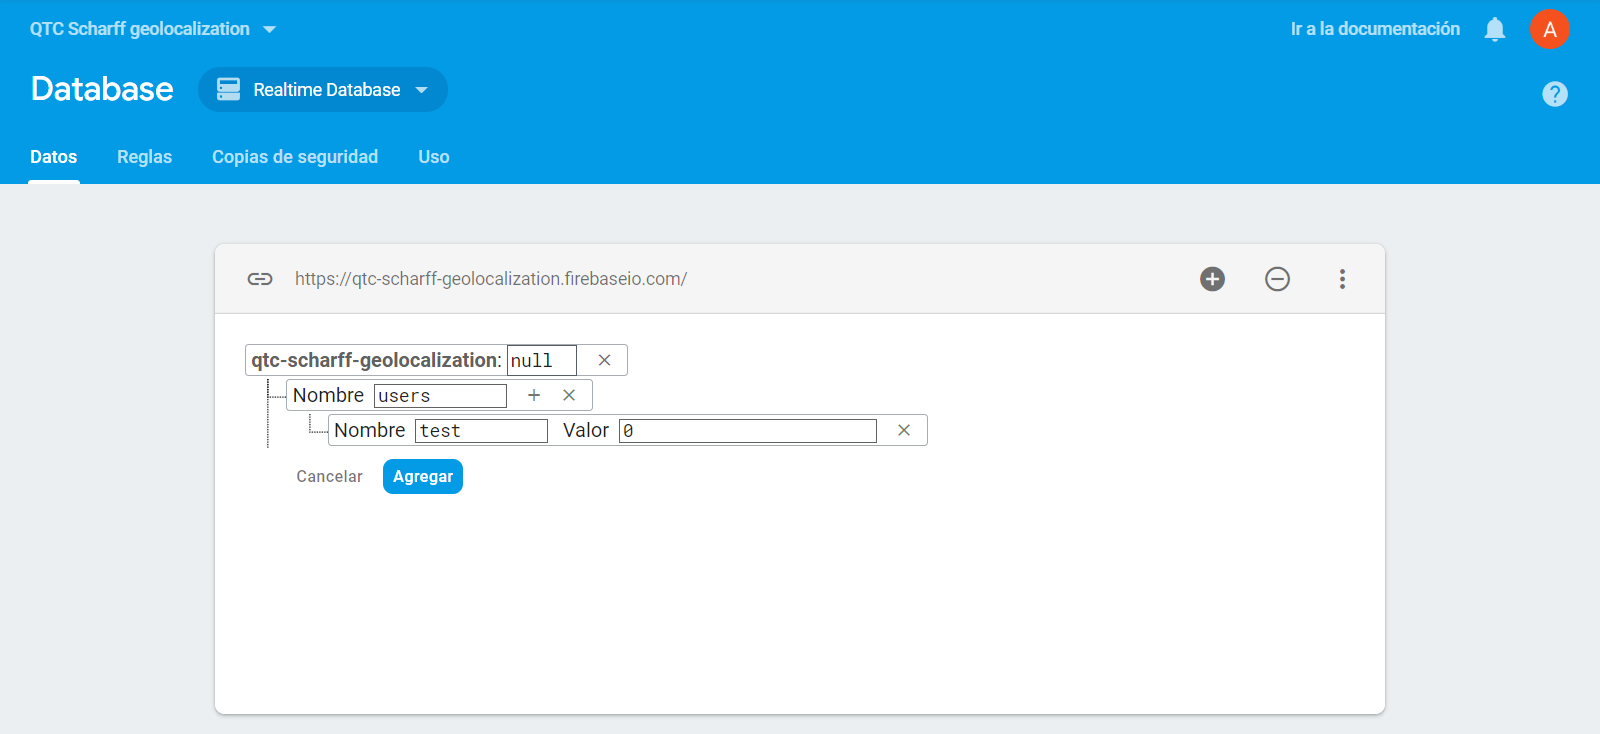
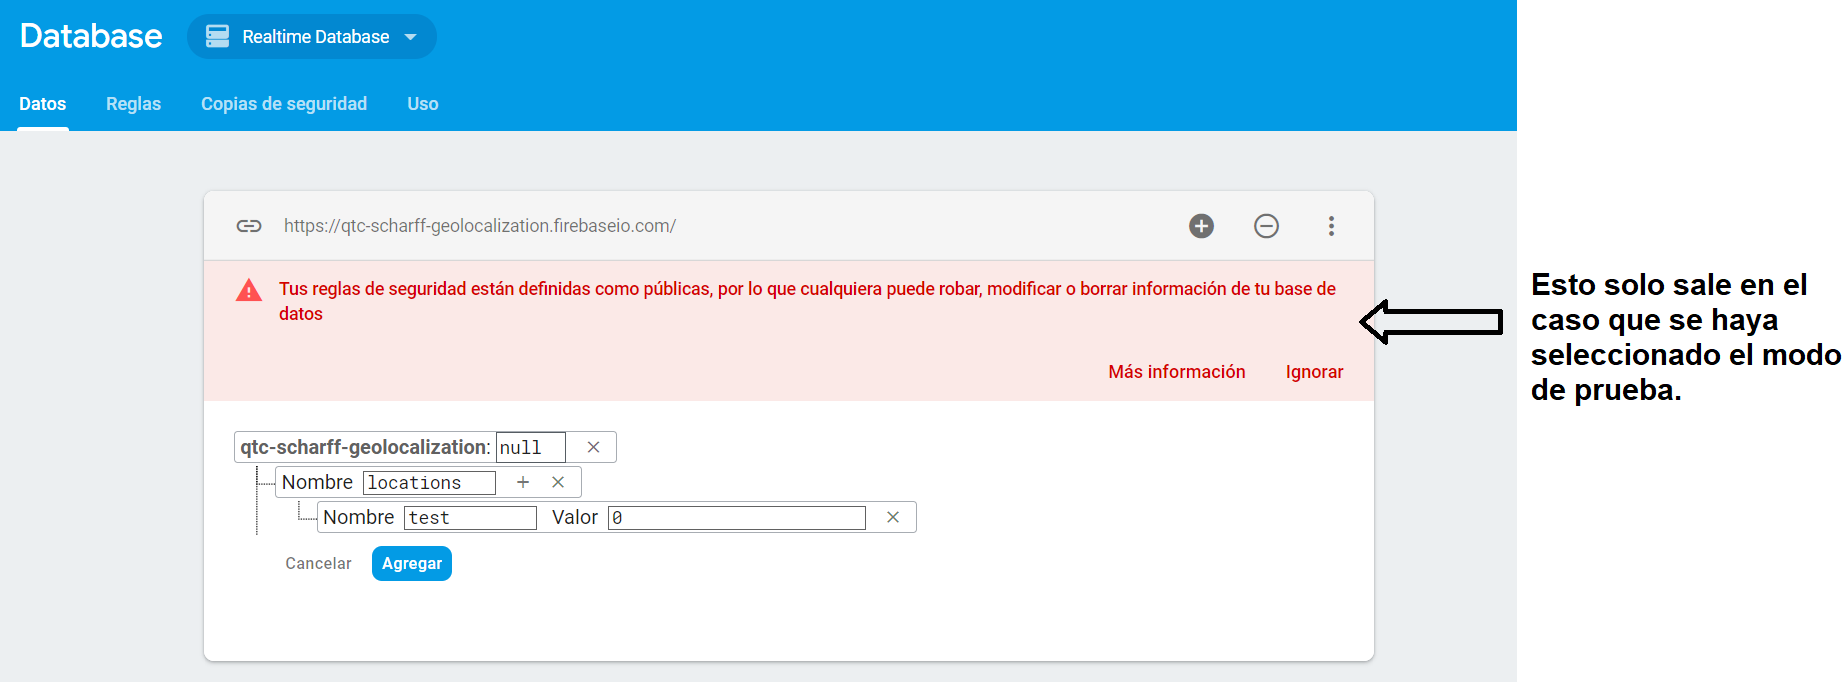
Avances 2019-03-19

diff --git a/app/src/main/java/com/qtcteam/scharff/geolocalization/presenter/TrackingPresenter.java b/app/src/main/java/com/qtcteam/scharff/geolocalization/presenter/TrackingPresenter.java
@@ -1,6 +1,5 @@
 package com.qtcteam.scharff.geolocalization.presenter;
 
-import android.content.ComponentName;
 import android.content.Context;
 import android.content.Intent;
 import android.location.LocationManager;
@@ -13,6 +12,7 @@ import com.qtcteam.scharff.geolocalization.view.TrackingActivity;
 public class TrackingPresenter implements Presenter {
 
     private final static String TAG = "QTC_GEO_TRACKING_PRES";
+    /* package */ final static String EXTRA_ORDER = "ORDER";
 
     private TrackingActivity view;
     private boolean hasService;
@@ -23,9 +23,6 @@ public class TrackingPresenter implements Presenter {
     }
 
     public boolean isGPSEnabled () {
-        if (view == null) {
-            return false;
-        }
         LocationManager lm = (LocationManager) view.getSystemService(Context.LOCATION_SERVICE);
         if (lm == null) {
             Utils.showMessage(view, R.string.tracking_msg_no_gps);
@@ -39,15 +36,25 @@ public class TrackingPresenter implements Presenter {
         return true;
     }
 
-    public void startService () {
-        if (view == null || hasService) {
+    public boolean validateOrder (String order) {
+        if (order == null || order.isEmpty()) {
+            Utils.showMessage(view, R.string.tracking_msg_order_empty);
+            return false;
+        }
+        return true;
+    }
+
+    public void startService (String order) {
+        if (hasService) {
             Log.d(TAG, "view is null or service is already in execution");
             return;
         }
         try {
             Log.d(TAG, "starting service");
-            ComponentName service = view.startService(new Intent(view, TrackingService.class));
-            hasService = (service != null);
+            Intent intent = new Intent(view, TrackingService.class);
+            intent.putExtra(EXTRA_ORDER, order);
+            // Iniciar el servicio y actualizar hasService si se inició correctamente
+            hasService = (view.startService(intent) != null);
         } catch (SecurityException ex) {
             Log.d(TAG, "lacking permissions to start service, or service not found");
         }
@@ -58,12 +65,13 @@ public class TrackingPresenter implements Presenter {
     }
 
     public void stopService () {
-        if (view == null || !hasService) {
+        if (!hasService) {
             Log.d(TAG, "view is null or no service is executed");
             return;
         }
         try {
             Log.d(TAG, "stopping service");
+            // Detener el servicio y actualizar hasService si se inició correctamente
             hasService = !view.stopService(new Intent(view, TrackingService.class));
         } catch (SecurityException ex) {
             Log.d(TAG, "lacking permissions to stop service, or service not found");

diff --git a/app/src/main/java/com/qtcteam/scharff/geolocalization/view/TrackingActivity.java b/app/src/main/java/com/qtcteam/scharff/geolocalization/view/TrackingActivity.java
@@ -1,14 +1,13 @@
 package com.qtcteam.scharff.geolocalization.view;
 
 import android.Manifest;
-import android.os.PersistableBundle;
 import android.support.annotation.NonNull;
 import android.support.v7.app.AlertDialog;
 import android.support.v7.app.AppCompatActivity;
 import android.os.Bundle;
 import android.util.Log;
 import android.view.View;
-import android.widget.Button;
+import android.widget.EditText;
 
 import com.qtcteam.scharff.geolocalization.R;
 import com.qtcteam.scharff.geolocalization.presenter.TrackingPresenter;
@@ -17,11 +16,11 @@ import com.qtcteam.scharff.geolocalization.utils.Permissions;
 public class TrackingActivity extends AppCompatActivity {
 
     private static final String TAG = "QTC_GEO_TRACKING";
-
-    private static final int REQUEST_PERMISSIONS = 1001;
     private static final String HAS_SERVICE = "HAS_SERVICE";
+    private static final int REQUEST_PERMISSIONS = 1001;
 
     private TrackingPresenter presenter;
+    private EditText mOrder;
 
     @Override
     protected void onCreate(Bundle savedInstanceState) {
@@ -37,14 +36,19 @@ public class TrackingActivity extends AppCompatActivity {
             Log.d(TAG, "bundle is null");
             presenter = new TrackingPresenter(this, false);
         }
+
+        mOrder = findViewById(R.id.tracking_input_order);
     }
 
     public void startTracking (View v) {
+        String order = mOrder.getText().toString();
+        if (!presenter.validateOrder(order)) return;
+
         // Verificar que se tengan los permisos necesarios, en caso no se tengan solicitarlos
         if (presenter.isGPSEnabled() && Permissions.checkOrRequest(this,
                 REQUEST_PERMISSIONS, Manifest.permission.ACCESS_FINE_LOCATION)) {
             // Iniciar el servicio
-            presenter.startService();
+            presenter.startService(order);
         }
     }
 
@@ -64,7 +68,10 @@ public class TrackingActivity extends AppCompatActivity {
         switch (requestCode) {
             case REQUEST_PERMISSIONS:
                 if (Permissions.checkGrantResults(permissions, grantResults)) {
-                    presenter.startService();
+                    String order = mOrder.getText().toString();
+                    if (presenter.validateOrder(order)) {
+                        presenter.startService(order);
+                    }
                 } else {
                     showPermissionsDialog();
                 }

diff --git a/app/src/main/java/com/qtcteam/scharff/geolocalization/presenter/TrackingService.java b/app/src/main/java/com/qtcteam/scharff/geolocalization/presenter/TrackingService.java
@@ -21,7 +21,6 @@ import com.qtcteam.scharff.geolocalization.R;
 public class TrackingService extends Service {
 
     private static final String TAG = "QTC_GEO_SERVICE";
-
     private static final String FIREBASE_DB_LOCATIONS = "locations";
     private static final String FIREBASE_DB_ORDERS = "orders";
     private static final int LOCATION_INTERVAL = 10000;
@@ -30,6 +29,7 @@ public class TrackingService extends Service {
 
     private FirebaseUser user;
     private FusedLocationProviderClient client;
+    private String order;
 
     @Override
     public IBinder onBind (Intent intent) {
@@ -45,8 +45,21 @@ public class TrackingService extends Service {
             buildNotification();
             requestLocationUpdates();
         } else {
-            Log.e(TAG, "user is null for some reason, not doing anything");
+            Log.w(TAG, "user is null for some reason, aborting...");
+            stopSelf();
         }
+    }
+
+    @Override
+    public int onStartCommand(Intent intent, int flags, int startId) {
+        if (intent != null) {
+            order = intent.getStringExtra(TrackingPresenter.EXTRA_ORDER);
+            if (order == null) {
+                Log.w(TAG, "order is null for some reason, aborting...");
+                stopSelf();
+            }
+        }
+        return super.onStartCommand(intent, flags, startId);
     }
 
     private void buildNotification () {
@@ -68,7 +81,8 @@ public class TrackingService extends Service {
         try {
             client.requestLocationUpdates(request, callback, null);
         } catch (SecurityException ex) {
-            Log.d(TAG, "User revoked permission to access location");
+            Log.d(TAG, "User revoked permission to access location, aborting...");
+            stopSelf();
         }
     }
 
@@ -81,7 +95,9 @@ public class TrackingService extends Service {
             if (location != null) {
                 Log.d(TAG, "location update");
                 db.child(FIREBASE_DB_LOCATIONS).child(user.getUid()).setValue(location);
-                db.child(FIREBASE_DB_ORDERS).child("ORD1234").setValue(user.getUid());
+                if (order != null) {
+                    db.child(FIREBASE_DB_ORDERS).child(order).setValue(user.getUid());
+                }
             } else {
                 Log.d(TAG, "location is null");
             }

diff --git a/app/src/main/java/com/qtcteam/scharff/geolocalization/presenter/LoginPresenter.java b/app/src/main/java/com/qtcteam/scharff/geolocalization/presenter/LoginPresenter.java
@@ -26,10 +26,7 @@ public class LoginPresenter implements Presenter {
     }
 
     public boolean validateCredentials (String email, String password) {
-        if (view == null) {
-            return false;
-        }
-        if (email.length() == 0) {
+        if (email == null || email.isEmpty()) {
             Utils.showMessage(view, R.string.login_msg_email_empty);
             return false;
         }
@@ -37,7 +34,7 @@ public class LoginPresenter implements Presenter {
             Utils.showMessage(view, R.string.login_msg_email_invalid);
             return false;
         }
-        if (password.length() == 0) {
+        if (password == null || password.length() == 0) {
             Utils.showMessage(view, R.string.login_msg_password_empty);
             return false;
         }
@@ -56,9 +53,6 @@ public class LoginPresenter implements Presenter {
     }
 
     public String getAuthErrorMessage (Exception exception) {
-        if (view == null) {
-            return exception.getLocalizedMessage();
-        }
         if (exception == null) {
             return view.getString(R.string.firebase_err_unknown);
         }

diff --git a/readme.md b/readme.md
@@ -16,7 +16,9 @@ Estos son los pasos a seguir para crear un proyecto en Android usando Firebase, 
 
 5. Clic en **Crear proyecto**.
 
-## Habilitar autenticación y Realtime Database de Firebase
+## Habilitar autenticación con correo y contraseña en Firebase
+
+Para las pruebas con el proyecto, se usó la autenticación con usuario y contraseña. Si se desea usar este método para trabajar con Firebase, seguir los siguientes pasos:
 
 1. Ir a **https://console.firebase.google.com/** y seleccionar el proyecto creado.
 
@@ -28,11 +30,26 @@ Estos son los pasos a seguir para crear un proyecto en Android usando Firebase, 
 
 4. Crear los usuarios que se deseen en la subpestaña de **Usuarios**.
 
-5. Seleccionar ahora la pestaña **Database**, ir hacia **Realtime Database** y hacer clic en **Crear base de datos**. De preferencia, dejar la configuración por defecto y hacer clic en **Habilitar**, pues de todas maneras se va a reemplazar la configuración en el paso siguiente.
+## Otras formas de autenticación
+
+Si se desea una forma personalizada para autenticarse (ej. nombre de usuario cualquiera + contraseña, DNI o RUC + contraseña, etc.) se debe configurar en el servidor propio que se tenga para la autenticación de usuarios, que brinde un servicio tal que, en base a los parámetros de inicio de sesión (usuario + contraseña, por ejemplo) devuelva un token autogenerado por la API de Firebase
+
+- Para **crear tokens** personalizados en un servidor propio, ver "Crea tokens personalizados" en la documentación de Firebase (https://firebase.google.com/docs/auth/admin/create-custom-tokens).
+- Para **autenticarse en el aplicativo móvil** usando el token de Firebase proporcionado por la forma personalizada de autenticación, ver "Cómo autenticar con Firebase en Android mediante un sistema de autenticación personalizado" en la documentación de Firebase (https://firebase.google.com/docs/auth/android/custom-auth).
+
+También es posible no realizar autenticación alguna, y leer y escribir la información de los scharffers de forma pública, pero **no es recomendable** debido a que cualquier usuario es capaz de leer dicha información sensible. Para ello, se debe otorgar permisos a todos en toda la base de datos, es decir, activar la opción de (*Comenzar en modo de prueba*) al momento de crear la base de datos de Firebase.
+
+## Habilitar Firebase Realtime Database
+
+Sea cual sea la forma de autenticación, es necesario configurar la base de datos NoSQL de Firebase, para poder guardar ahí las ubicaciones de los scharffers. Para ello, seguir los siguientes pasos:
+
+1. Seleccionar la pestaña **Database**, ir hacia **Realtime Database** y hacer clic en **Crear base de datos**. Si es que se ha activado la **autenticación con usuario y contraseña**, de preferencia dejar la configuración por defecto y hacer clic en **Habilitar**, pues de todas maneras se va a reemplazar la configuración en el paso siguiente. Caso contrario, colocar la segunda opción (*Comenzar en modo de prueba*).
 
 ![Firebase Realtime Database](img/console-db-create.png)
 
-6. Después de que se haya creado la base de datos, ir a la subpestaña **Reglas** y reemplazar el JSON contenido en dicha pestaña con el JSON a continuación:
+![Firebase Realtime Database](img/console-db-create-2.png)
+
+2. Si es que se ha activado la **autenticación con usuario y contraseña**, después de que se haya creado la base de datos, ir a la subpestaña **Reglas** y reemplazar el JSON contenido en dicha pestaña con el JSON a continuación:
 
 ```JSON
 {
@@ -52,7 +69,7 @@ Estos son los pasos a seguir para crear un proyecto en Android usando Firebase, 
 ```
 Esto permitirá que cualquier usuario autenticado pueda leer la información de ubicación del resto de usuarios, pero un usuario autenticado solo puede editar los datos de sí mismo/a.
 
-7. Para evitar que se borre la base de datos al no tener datos colocados, colocar `locations` como nodo hijo de la base de datos, y un *nodo de prueba* como nodo hijo de `locations`.
+4. Para evitar que se borre la base de datos al no tener datos colocados, colocar `locations` como nodo hijo de la base de datos, y un *nodo de prueba* como nodo hijo de `locations`.
 
 ![Nodos de prueba](img/console-db-data.png)
 
@@ -118,7 +135,10 @@ dependencies {
 ```
 Las versiones de Firebase para Android pueden variar conforme pase el tiempo, lo importante es que los módulos estén declarados en los archivos `.gradle`.
 
-## Links de interés
+## Proyecto en Android
+
+Este proyecto desarrollado por los desarrolladores de Android sirve como base para programar la transmisión de la ubicación de un dispositivo móvil usando Firebase:
 
 - https://codelabs.developers.google.com/codelabs/realtime-asset-tracking/index.html
-- https://www.androidauthority.com/create-a-gps-tracking-application-with-firebase-realtime-databse-844343/
+
+En base a dicho proyecto, se presenta en este repositorio una app de prueba de concepto usando autenticación por correo y contraseña, y escritura a la base de datos de Firebase.
